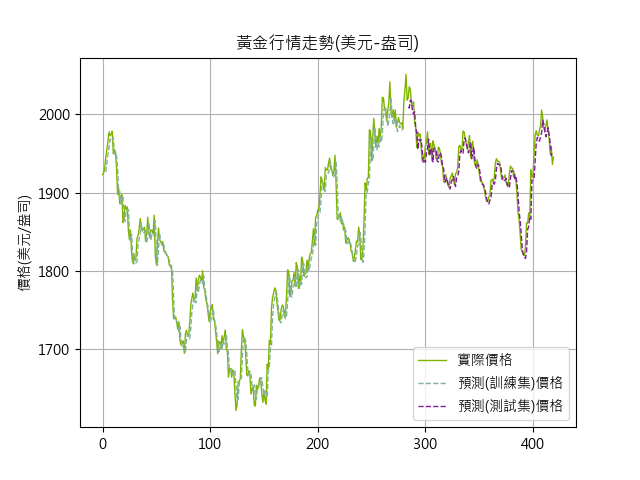
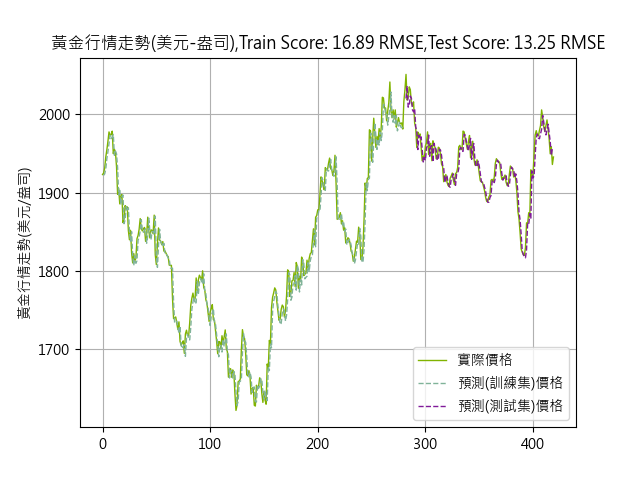
update

diff --git a/LSTM_Predict.py b/LSTM_Predict.py
@@ -30,7 +30,7 @@ def create_dateset(dataset, look_back=1):
 
 if __name__ == "__main__":
     infos = []
-    filename = '黃金行情走勢(美元-盎司)'
+    filename = '廢鋼-豐興(元-噸)'
     # get information
     with open("json/{}.json".format(filename)) as fid:
         data = json.load(fid)
@@ -63,12 +63,11 @@ if __name__ == "__main__":
     test = dataset[train_size:len(dataset), :]
 
     # 以前前資料為x，當期資料為Y
-    # look_back = 1
-    look_back = 3
+    look_back = 1
     trainX, trainY = create_dateset(train, look_back)
     testX, testY = create_dateset(test, look_back)
 
-    # [number、1、dim]
+    # [筆數、落後期數、dim]
     trainX = np.reshape(trainX, (trainX.shape[0], 1, trainX.shape[1]))
     testX = np.reshape(testX, (testX.shape[0], 1, testX.shape[1]))
 
@@ -91,9 +90,11 @@ if __name__ == "__main__":
 
     # 計算 RMSE
     trainScore = math.sqrt(mean_squared_error(trainY, trainPredict[:, 0]))
-    print('Train Score: %.2f RMSE' % trainScore)
+    s1 = 'Train Score: %.2f RMSE' % trainScore
+    print(s1)
     testScore = math.sqrt(mean_squared_error(testY, testPredict[:, 0]))
-    print('Test Score: %.2f RMSE' % testScore)
+    s2 = 'Test Score: %.2f RMSE' % testScore
+    print(s2)
 
     # 訓練資料的X/Y
     trainPredictPlot = np.empty_like(dataset)
@@ -112,10 +113,12 @@ if __name__ == "__main__":
     # plt.show()
     plt.legend()
     plt.grid(True)
-    plt.title(filename)  # title
-    plt.ylabel("價格(美元/盎司)")  # y label
+    plt.title("{},{},{}".format(filename, s1, s2))  # title
+    plt.ylabel("廢鋼-豐興(元/噸)")  # y label
 
     if not os.path.exists('image'):
         os.mkdir('image')
-    plt.savefig('image/gold.png')
+    # gold, steel, scrap_steel
+    plt.savefig('image/scrap_steel.png')
+
     plt.close()

diff --git a/README.md b/README.md
@@ -6,5 +6,11 @@ flowchart LR;
     5[train model and evaluate] --check--> 3[split];
 ```
 
-## 黃金預測結果(Example)
+## 黃金行情走勢(美元-盎司) look_back=1
 ![image info](./image/gold.png)
+
+## 鋼筋豐興廠交價(元-噸) look_back=1
+![image info](./image/steel.png)
+
+## 廢鋼-豐興(元-噸) look_back=1
+![image info](./image/scrap_steel.png)
